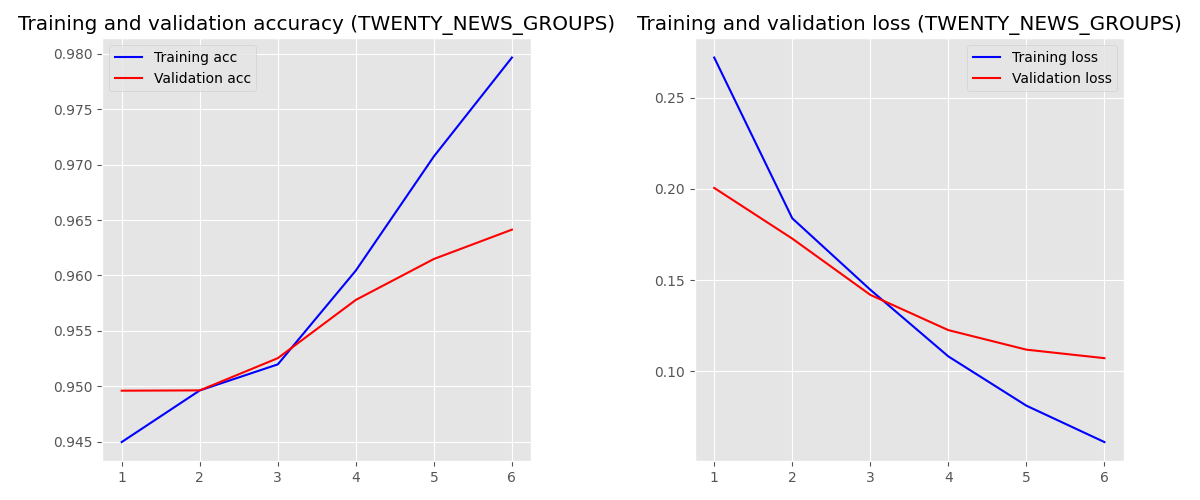
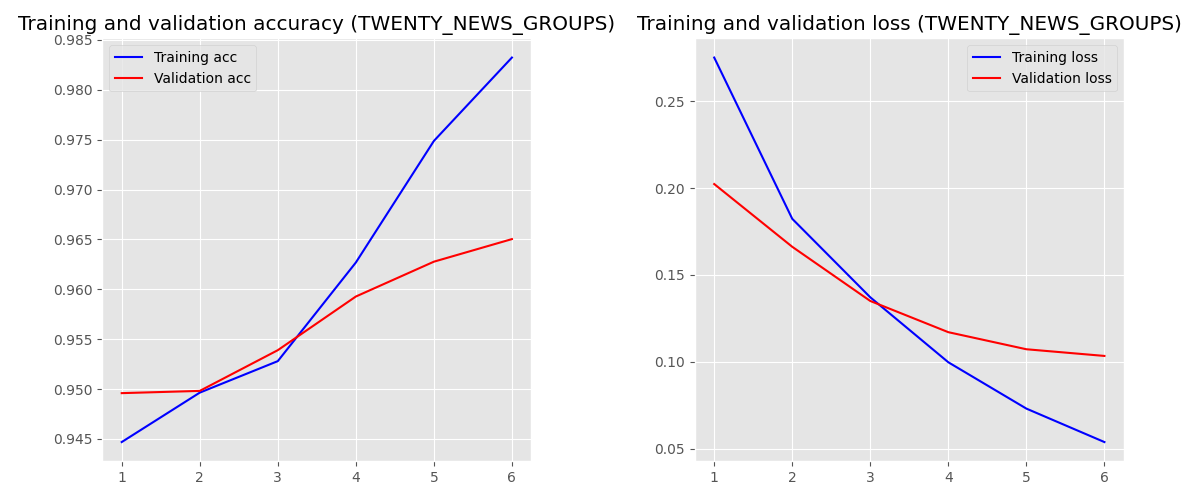
Deep learning using keras

diff --git a/code/deep_learning/keras_deep_learning.py b/code/deep_learning/keras_deep_learning.py
@@ -95,7 +95,7 @@ def run_deep_learning_using_keras(options):
         loss, accuracy = model.evaluate(X_train, y_train, verbose=False)
         print("Training Accuracy: {:.2f}%".format(accuracy*100))
         loss, accuracy = model.evaluate(X_test, y_test, verbose=False)
-        print("Testing Accuracy:  {:.2f}%".format(accuracy*100))
+        print("Testingf}%".format(accuracy*100))
 
         plt.style.use('ggplot')
 

diff --git a/code/results/deep_learning_using_keras/training_and_validation_accuracy-training_and_validation_loss_and_logs.md b/code/results/deep_learning_using_keras/training_and_validation_accuracy-training_and_validation_loss_and_logs.md
@@ -8,20 +8,26 @@
 
 #### Training and Validation Accuracy and Loss
 
-| DATASET             | Training Accuracy (%) | Test Accuracy (%) | Training Loss (%) | Validation Loss (%) | 
-| ------------------- | ----------------- | ------------------- | ------------- | --------------- |
-|  TWENTY_NEWS_GROUPS | 98.55             | 96.41               |               |                 |
-|  IMDB_REVIEWS       |              |                     |               |                 |
+Training Accuracy: 98.92%
+Testing Accuracy:  96.50%
+
+Training Accuracy: 99.96%
+Testing Accuracy:  84.16%
+
+| DATASET             | Training Accuracy (%) | Test Accuracy (%) | 
+| ------------------- | --------------------- | ----------------- |
+|  TWENTY_NEWS_GROUPS | 98.92%                | 96.50%            |
+|  IMDB_REVIEWS       | 99.96%                | 84.16%            |
 
 
 ```
 /home/rpessoa/virtual_envs/comp551_p2/bin/python /home/rpessoa/github/comp551-2020-p2_classification_of_textual_data/code/main.py --run_deep_learning_using_keras
 Using TensorFlow backend.
-2020-03-08 13:14:03.660629: W tensorflow/stream_executor/platform/default/dso_loader.cc:55] Could not load dynamic library 'libnvinfer.so.6'; dlerror: libnvinfer.so.6: cannot open shared object file: No such file or directory
-2020-03-08 13:14:03.660691: W tensorflow/stream_executor/platform/default/dso_loader.cc:55] Could not load dynamic library 'libnvinfer_plugin.so.6'; dlerror: libnvinfer_plugin.so.6: cannot open shared object file: No such file or directory
-2020-03-08 13:14:03.660696: W tensorflow/compiler/tf2tensorrt/utils/py_utils.cc:30] Cannot dlopen some TensorRT libraries. If you would like to use Nvidia GPU with TensorRT, please make sure the missing libraries mentioned above are installed properly.
-03/08/2020 01:14:04 PM - INFO - Program started...
-03/08/2020 01:14:04 PM - INFO - Program started...
+2020-03-08 14:00:49.782641: W tensorflow/stream_executor/platform/default/dso_loader.cc:55] Could not load dynamic library 'libnvinfer.so.6'; dlerror: libnvinfer.so.6: cannot open shared object file: No such file or directory
+2020-03-08 14:00:49.782698: W tensorflow/stream_executor/platform/default/dso_loader.cc:55] Could not load dynamic library 'libnvinfer_plugin.so.6'; dlerror: libnvinfer_plugin.so.6: cannot open shared object file: No such file or directory
+2020-03-08 14:00:49.782703: W tensorflow/compiler/tf2tensorrt/utils/py_utils.cc:30] Cannot dlopen some TensorRT libraries. If you would like to use Nvidia GPU with TensorRT, please make sure the missing libraries mentioned above are installed properly.
+03/08/2020 02:00:50 PM - INFO - Program started...
+03/08/2020 02:00:50 PM - INFO - Program started...
 usage: main.py [-h] [-d DATASET] [-ml ML_ALGORITHM_LIST]
                [-use_default_parameters] [-not_shuffle] [-n_jobs N_JOBS] [-cv]
                [-n_splits N_SPLITS] [-required_classifiers]
@@ -160,24 +166,24 @@ data loaded
 20 categories
 
 Extracting features from the training data using a vectorizer
-done in 1.080179s at 12.759MB/s
+done in 1.074437s at 12.827MB/s
 n_samples: 11314, n_features: 101321
 
 Extracting features from the test data using the same vectorizer
-done in 0.574098s at 14.391MB/s
+done in 0.621911s at 13.284MB/s
 n_samples: 7532, n_features: 101321
 
 ================================================================================
 Keras
-2020-03-08 13:14:07.230963: W tensorflow/stream_executor/platform/default/dso_loader.cc:55] Could not load dynamic library 'libcuda.so.1'; dlerror: libcuda.so.1: cannot open shared object file: No such file or directory
-2020-03-08 13:14:07.230978: E tensorflow/stream_executor/cuda/cuda_driver.cc:351] failed call to cuInit: UNKNOWN ERROR (303)
-2020-03-08 13:14:07.230990: I tensorflow/stream_executor/cuda/cuda_diagnostics.cc:156] kernel driver does not appear to be running on this host (rpessoadesk): /proc/driver/nvidia/version does not exist
-2020-03-08 13:14:07.231110: I tensorflow/core/platform/cpu_feature_guard.cc:142] Your CPU supports instructions that this TensorFlow binary was not compiled to use: AVX2 FMA
-2020-03-08 13:14:07.254445: I tensorflow/core/platform/profile_utils/cpu_utils.cc:94] CPU Frequency: 3199980000 Hz
-2020-03-08 13:14:07.255092: I tensorflow/compiler/xla/service/service.cc:168] XLA service 0x891a0c0 initialized for platform Host (this does not guarantee that XLA will be used). Devices:
-2020-03-08 13:14:07.255117: I tensorflow/compiler/xla/service/service.cc:176]   StreamExecutor device (0): Host, Default Version
-Training Accuracy: 0.9855
-Testing Accuracy:  0.9641
+2020-03-08 14:00:53.373440: W tensorflow/stream_executor/platform/default/dso_loader.cc:55] Could not load dynamic library 'libcuda.so.1'; dlerror: libcuda.so.1: cannot open shared object file: No such file or directory
+2020-03-08 14:00:53.373456: E tensorflow/stream_executor/cuda/cuda_driver.cc:351] failed call to cuInit: UNKNOWN ERROR (303)
+2020-03-08 14:00:53.373467: I tensorflow/stream_executor/cuda/cuda_diagnostics.cc:156] kernel driver does not appear to be running on this host (rpessoadesk): /proc/driver/nvidia/version does not exist
+2020-03-08 14:00:53.373588: I tensorflow/core/platform/cpu_feature_guard.cc:142] Your CPU supports instructions that this TensorFlow binary was not compiled to use: AVX2 FMA
+2020-03-08 14:00:53.394335: I tensorflow/core/platform/profile_utils/cpu_utils.cc:94] CPU Frequency: 3199980000 Hz
+2020-03-08 14:00:53.394674: I tensorflow/compiler/xla/service/service.cc:168] XLA service 0x73bd1d0 initialized for platform Host (this does not guarantee that XLA will be used). Devices:
+2020-03-08 14:00:53.394684: I tensorflow/compiler/xla/service/service.cc:176]   StreamExecutor device (0): Host, Default Version
+Training Accuracy: 98.92%
+Testing Accuracy:  96.50%
 Plotting the grapsh
 Loading IMDB_REVIEWS dataset:
 
@@ -193,22 +199,22 @@ data loaded
 25000 documents - 32.351MB (test set)
 
 Extracting features from the training data using a vectorizer
-done in 2.854300s at 11.608MB/s
+done in 2.783152s at 11.905MB/s
 n_samples: 25000, n_features: 74170
 
 Extracting features from the test data using the same vectorizer
-done in 2.773329s at 11.665MB/s
+done in 2.720244s at 11.893MB/s
 n_samples: 25000, n_features: 74170
 
 ================================================================================
 Keras
-Training Accuracy: 0.9996
-Testing Accuracy:  0.8416
+Training Accuracy: 99.96%
+Testing Accuracy:  84.16%
 Plotting the grapsh
 
 
 DONE!
-Program finished. It took 168.30148696899414 seconds
+Program finished. It took 168.13154578208923 seconds
 
 Process finished with exit code 0
 ```
